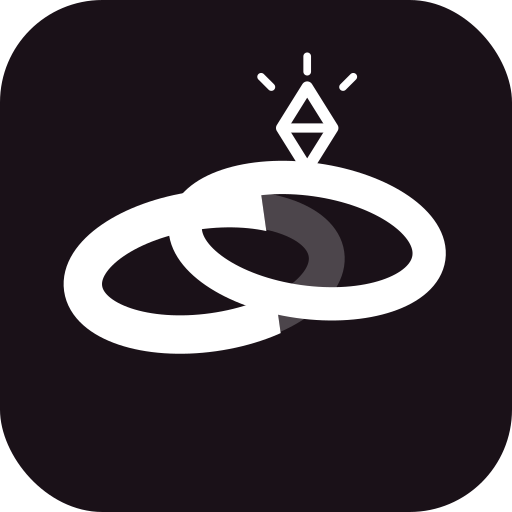
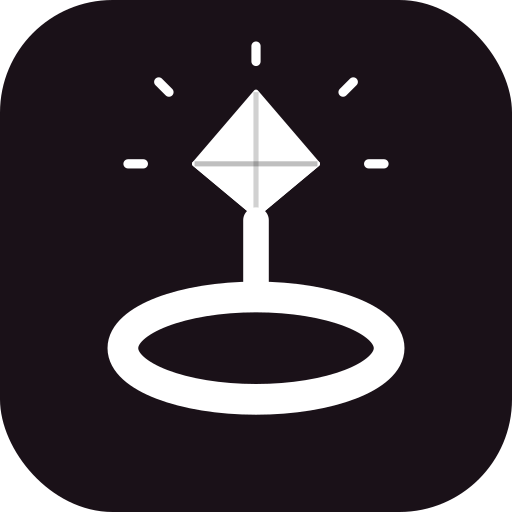
Brunch oui/non, stats 4+3 colonnes, icône solitaire, sync Supabase (#17)
* Fix icone header, emoji Nounou, STD superposé, catégorie visible sur carte

- Revenir à 💍 avec fond dégradé pour l'icone header
- Nounou : emoji 🤵🏻 peau claire
- Save the date : ✉️ avec ❌ ou ✅ superposé (icon-stack CSS)
- Catégorie affichée comme tag 🏷️ sur chaque carte invité

https://claude.ai/code/session_01TzBPeyMmDh2J5GMainPLPY

* Brunch oui/non, stats 4+3 colonnes, icône solitaire, sync Supabase prioritaire

https://claude.ai/code/session_01TzBPeyMmDh2J5GMainPLPY

* Brunch oui/non, stats 4+3 colonnes, icône solitaire, sync Supabase prioritaire

https://claude.ai/code/session_01TzBPeyMmDh2J5GMainPLPY

* Brunch oui/non, stats 4+3 colonnes, icône solitaire, sync Supabase

https://claude.ai/code/session_01TzBPeyMmDh2J5GMainPLPY

---------

diff --git a/index.html b/index.html
@@ -486,6 +486,7 @@ body {
 .tag-cat { background: var(--gold-dim); color: var(--gold); }
 .tag-std-envoyé  { background: rgba(245,158,11,0.12); color: #b45309; border: 1.5px solid #f59e0b; }
 .tag-std-confirmé { background: var(--green-dim); color: var(--green); border: 1.5px solid var(--green); }
+.tag-brunch { background: var(--blue-dim); color: var(--blue); border: 1.5px solid var(--blue); }
 
 /* ── LOGIN ── */
 .login-screen {
@@ -519,6 +520,23 @@ body {
   padding: 3px 8px; border-radius: 20px; cursor: pointer;
   border: none; font-family: 'Inter', sans-serif;
 }
+
+/* ── BRUNCH TOGGLE ── */
+.btn-toggle-brunch {
+  flex: 1;
+  padding: 10px 8px;
+  border-radius: var(--radius-sm);
+  border: 1.5px solid var(--border);
+  background: var(--surface2);
+  color: var(--text2);
+  font-size: 13px;
+  font-weight: 600;
+  cursor: pointer;
+  font-family: 'Inter', sans-serif;
+  transition: all var(--t);
+}
+.btn-toggle-brunch.active-oui { background: var(--green-dim); border-color: var(--green); color: var(--green); }
+.btn-toggle-brunch.active-non { background: var(--red-dim); border-color: var(--red); color: var(--red); }
 
 /* ── ACTIVITY LOG ── */
 .act-card {
@@ -685,12 +703,20 @@ body {
         </select>
       </div>
     </div>
-    <div class="field"><label>Save the Date (STD)</label>
-      <select id="g-std">
-        <option value="">— Non envoyé —</option>
-        <option value="envoyé">📩 Envoyé</option>
-        <option value="confirmé">📩 Confirmé</option>
-      </select>
+    <div class="two-col">
+      <div class="field"><label>Save the Date (STD)</label>
+        <select id="g-std">
+          <option value="">— Non envoyé —</option>
+          <option value="envoyé">📩 Envoyé</option>
+          <option value="confirmé">📩 Confirmé</option>
+        </select>
+      </div>
+      <div class="field"><label>Brunch</label>
+        <div style="display:flex;gap:8px;margin-top:2px">
+          <button type="button" id="g-brunch-oui" onclick="setBrunch('oui')" class="btn-toggle-brunch">✅ Oui</button>
+          <button type="button" id="g-brunch-non" onclick="setBrunch('non')" class="btn-toggle-brunch">❌ Non</button>
+        </div>
+      </div>
     </div>
     <div class="two-col">
       <div class="field"><label>Repas</label>
@@ -944,16 +970,20 @@ function clearActivity() {
 // ────────────────────────────────────────────────────────────────
 let gFilter = 'tous';
 let stdFilter = '';
+let brunchFilter = false;
 function statGuestFilter(f, sf) {
   gFilter = f;
   stdFilter = sf;
+  brunchFilter = (f === 'brunch');
+  if (brunchFilter) gFilter = 'tous';
   renderGuests();
 }
 function renderGuests() {
   const cote = document.getElementById('g-cote-filter').value;
   const cat  = document.getElementById('g-cat-filter').value;
   let list = guests.filter(g => {
-    if (gFilter !== 'tous' && g.statut !== gFilter) return false;
+    if (brunchFilter && g.brunch !== 'oui') return false;
+    if (!brunchFilter && gFilter !== 'tous' && g.statut !== gFilter) return false;
     if (stdFilter && g.std !== stdFilter) return false;
     if (cote && g.cote !== cote) return false;
     if (cat  && g.categorie !== cat) return false;
@@ -967,14 +997,20 @@ function renderGuests() {
   const stdEnvoye  = guests.filter(g => g.std === 'envoyé').length;
   const stdConfirm = guests.filter(g => g.std === 'confirmé').length;
   const totalNet   = oui + peutEtre;
-  document.getElementById('guests-stats').className = 'stats-row stats-3';
+  const brunchOui = guests.filter(g => g.brunch === 'oui').length;
+  document.getElementById('guests-stats').className = 'stats-row';
   document.getElementById('guests-stats').innerHTML = `
-    <div class="stat-card${gFilter==='tous'&&stdFilter===''?' active':''}" onclick="statGuestFilter('tous','')"><div class="stat-num">${totalNet}</div><div class="stat-lbl">Total</div></div>
-    <div class="stat-card${gFilter==='oui'?' active':''}" onclick="statGuestFilter('oui','')"><div class="stat-num" style="color:var(--green)">${oui}</div><div class="stat-lbl">Oui ✅</div></div>
-    <div class="stat-card${gFilter==='peut-être'?' active':''}" onclick="statGuestFilter('peut-être','')"><div class="stat-num" style="color:#b45309">${peutEtre}</div><div class="stat-lbl">Peut-être ❓</div></div>
-    <div class="stat-card${gFilter==='non'?' active':''}" onclick="statGuestFilter('non','')"><div class="stat-num" style="color:var(--red)">${non}</div><div class="stat-lbl">Non ❌</div></div>
-    <div class="stat-card${stdFilter==='envoyé'?' active':''}" onclick="statGuestFilter('tous','envoyé')"><div class="stat-num" style="color:#b45309">${stdEnvoye}</div><div class="stat-lbl">STD envoyé 📩</div></div>
-    <div class="stat-card${stdFilter==='confirmé'?' active':''}" onclick="statGuestFilter('tous','confirmé')"><div class="stat-num" style="color:var(--green)">${stdConfirm}</div><div class="stat-lbl">STD confirmé ✓</div></div>
+    <div style="grid-column:1/-1;display:grid;grid-template-columns:repeat(4,1fr);gap:8px">
+      <div class="stat-card${gFilter==='tous'&&stdFilter===''?' active':''}" onclick="statGuestFilter('tous','')"><div class="stat-num">${totalNet}</div><div class="stat-lbl">Total</div></div>
+      <div class="stat-card${gFilter==='oui'?' active':''}" onclick="statGuestFilter('oui','')"><div class="stat-num" style="color:var(--green)">${oui}</div><div class="stat-lbl">Oui ✅</div></div>
+      <div class="stat-card${gFilter==='peut-être'?' active':''}" onclick="statGuestFilter('peut-être','')"><div class="stat-num" style="color:#b45309">${peutEtre}</div><div class="stat-lbl">Peut-être ❓</div></div>
+      <div class="stat-card${gFilter==='non'?' active':''}" onclick="statGuestFilter('non','')"><div class="stat-num" style="color:var(--red)">${non}</div><div class="stat-lbl">Non ❌</div></div>
+    </div>
+    <div style="grid-column:1/-1;display:grid;grid-template-columns:repeat(3,1fr);gap:8px">
+      <div class="stat-card${stdFilter==='envoyé'?' active':''}" onclick="statGuestFilter('tous','envoyé')"><div class="stat-num" style="color:#b45309">${stdEnvoye}</div><div class="stat-lbl">STD envoyé 📩</div></div>
+      <div class="stat-card${stdFilter==='confirmé'?' active':''}" onclick="statGuestFilter('tous','confirmé')"><div class="stat-num" style="color:var(--green)">${stdConfirm}</div><div class="stat-lbl">STD confirmé ✓</div></div>
+      <div class="stat-card${gFilter==='brunch'?' active':''}" onclick="statGuestFilter('brunch','')"><div class="stat-num" style="color:var(--blue)">${brunchOui}</div><div class="stat-lbl">Brunch 🥐</div></div>
+    </div>
   `;
   const el = document.getElementById('guests-list');
   if (!list.length) {
@@ -991,6 +1027,7 @@ function renderGuests() {
       : g.std === 'envoyé'
       ? `<span class="tag tag-std-envoyé">📩</span>`
       : '';
+    const brunchBadge = g.brunch === 'oui' ? `<span class="tag tag-brunch">🥐 Brunch</span>` : '';
     return `<div class="card ${coteCardClass}" onclick="editGuest('${g.id}')">
       <span style="font-size:16px;flex-shrink:0">${coteIcon}</span>
       <div class="card-row">
@@ -998,6 +1035,7 @@ function renderGuests() {
         <div class="tags">
           ${g.categorie ? `<span class="tag tag-cat">${esc(g.categorie)}</span>` : ''}
           ${stdBadge}
+          ${brunchBadge}
           ${g.notes ? `<span style="font-size:12px">📝</span>` : ''}
           <span class="tag tag-${statutClass}">${statutIcon}</span>
         </div>
@@ -1022,10 +1060,19 @@ function openGuestModal(id = null) {
   document.getElementById('g-nomgite').value = g?.nom_gite || '';
   document.getElementById('g-table').value = g?.table_num || '';
   document.getElementById('g-notes').value = g?.notes || '';
+  gBrunch = g?.brunch || '';
+  document.getElementById('g-brunch-oui').className = 'btn-toggle-brunch' + (gBrunch === 'oui' ? ' active-oui' : '');
+  document.getElementById('g-brunch-non').className = 'btn-toggle-brunch' + (gBrunch === 'non' ? ' active-non' : '');
   onCouchageChange();
   document.getElementById('g-del-btn').style.display = id ? 'block' : 'none';
   document.getElementById('guest-overlay').classList.add('open');
   setTimeout(() => document.getElementById('g-prenom').focus(), 100);
+}
+let gBrunch = '';
+function setBrunch(val) {
+  gBrunch = gBrunch === val ? '' : val;
+  document.getElementById('g-brunch-oui').className = 'btn-toggle-brunch' + (gBrunch === 'oui' ? ' active-oui' : '');
+  document.getElementById('g-brunch-non').className = 'btn-toggle-brunch' + (gBrunch === 'non' ? ' active-non' : '');
 }
 function onCouchageChange() {
   const v = document.getElementById('g-couchage').value;
@@ -1053,6 +1100,7 @@ function saveGuest() {
     nom_gite: document.getElementById('g-nomgite').value.trim(),
     table_num: parseInt(document.getElementById('g-table').value) || null,
     notes:    document.getElementById('g-notes').value.trim(),
+    brunch:   gBrunch,
   };
   if (editingGuestId) guests = guests.map(x => x.id === editingGuestId ? g : x);
   else guests.unshift(g);
@@ -1270,8 +1318,8 @@ function deleteBudget() {
 });
 
 // ── INITIAL RENDER ────────────────────────────────────────────────
-renderGuests();
 initUser();
+renderGuests(); // renders from localStorage immediately (offline fallback)
 
 // ── IMPORT INITIAL ────────────────────────────────────────────────────────
 (function() {
@@ -1283,32 +1331,35 @@ initUser();
   renderGuests();
 })();
 
-// ── CLOUD SYNC ────────────────────────────────────────────────────
+// ── CLOUD SYNC (source of vérité = Supabase) ─────────────────────────────
 (async () => {
   if (!sb) return;
-  const [cloudGuests, cloudTasks, cloudBudget] = await Promise.all([
-    sbFetch('guests'), sbFetch('wedding_tasks'), sbFetch('budget_items')
-  ]);
-  let changed = false;
-  if (cloudGuests?.length) {
-    const valid = cloudGuests.filter(g => g && g.id && g.prenom);
-    if (valid.length) { guests = valid; changed = true; }
-  } else if (cloudGuests !== null && guests.length) {
-    await Promise.all(guests.map(g => sbUpsert('guests', g)));
-  }
-  if (cloudTasks?.length) {
-    const valid = cloudTasks.filter(t => t && t.id && t.titre);
-    if (valid.length) { tasks = valid; changed = true; }
-  } else if (cloudTasks !== null && tasks.length) {
-    await Promise.all(tasks.map(t => sbUpsert('wedding_tasks', t)));
-  }
-  if (cloudBudget?.length) {
-    const valid = cloudBudget.filter(b => b && b.id && b.description);
-    if (valid.length) { budget = valid; changed = true; }
-  } else if (cloudBudget !== null && budget.length) {
-    await Promise.all(budget.map(b => sbUpsert('budget_items', b)));
-  }
-  if (changed) { saveState(); renderGuests(); renderTasks(); renderBudget(); }
+  try {
+    const [cloudGuests, cloudTasks, cloudBudget] = await Promise.all([
+      sbFetch('guests'), sbFetch('wedding_tasks'), sbFetch('budget_items')
+    ]);
+    let changed = false;
+    if (cloudGuests?.length) {
+      const valid = cloudGuests.filter(g => g && g.id && g.prenom);
+      if (valid.length) { guests = valid; changed = true; }
+    } else if (cloudGuests !== null && guests.length) {
+      // Supabase vide → on pousse le local
+      await Promise.all(guests.map(g => sbUpsert('guests', g)));
+    }
+    if (cloudTasks?.length) {
+      const valid = cloudTasks.filter(t => t && t.id && t.titre);
+      if (valid.length) { tasks = valid; changed = true; }
+    } else if (cloudTasks !== null && tasks.length) {
+      await Promise.all(tasks.map(t => sbUpsert('wedding_tasks', t)));
+    }
+    if (cloudBudget?.length) {
+      const valid = cloudBudget.filter(b => b && b.id && b.description);
+      if (valid.length) { budget = valid; changed = true; }
+    } else if (cloudBudget !== null && budget.length) {
+      await Promise.all(budget.map(b => sbUpsert('budget_items', b)));
+    }
+    if (changed) { saveState(); renderGuests(); if (currentSection==='tasks') renderTasks(); if (currentSection==='budget') renderBudget(); }
+  } catch(e) { console.warn('[sync]', e); }
 })();
 </script>
 

diff --git a/service-worker.js b/service-worker.js
@@ -1,6 +1,6 @@
 $ cat /home/user/mariage-nounous/service-worker.js
 
-const CACHE_NAME = 'mariage-nounous-v14';
+const CACHE_NAME = 'mariage-nounous-v15';
 
 const PRECACHE_ASSETS = [
   '/bigday-nounoux/',